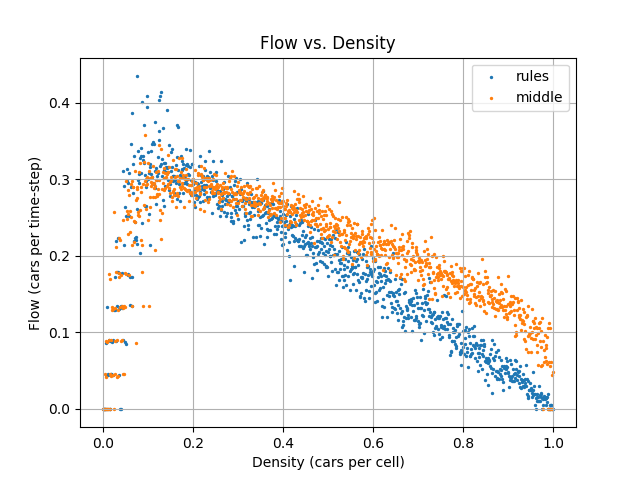
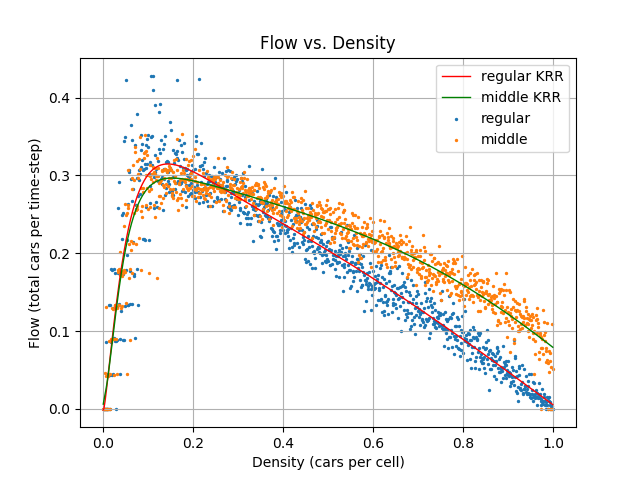
implemented KRR machine learning in a grid search for regression model,graphed with prettier colors

Changed region(s): [[0.0312, 0.125, 0.9062, 0.875]]

diff --git a/example.py b/example.py
@@ -1,9 +1,10 @@
 from trafficsimulation import TrafficSimulation
-# import seaborn as sns
+import time
 import numpy as np
-# import pandas as pd
 import matplotlib.pyplot as plt
-
+import pandas as pd
+from sklearn.model_selection import GridSearchCV
+from sklearn.kernel_ridge import KernelRidge
 
 def get_flow_array(densities, iterations, strategy):
     avg_flow_arr = []
@@ -18,21 +19,25 @@ def get_flow_array(densities, iterations, strategy):
         avg_flow_arr.append(avg_flow)
     return avg_flow_arr
 
-dens = np.arange(0.00,1.0,.001)
+dens = np.arange(0.0,1.0,.001)
 its = 200
-strategies = ['rules','middle']
+strategies = ['regular','middle']
+train_size = len(dens)
 for strategy in strategies:
     flows = get_flow_array(dens, its, strategy)
-    dens = np.array(dens)
     flows = np.array(flows)
-    # df = pd.DataFrame({'density':dens, 'flow':flows})
-    # ax = sns.lmplot(x='density', y='flow', fit_reg=True, data=df)
     plt.scatter(dens,flows,s=2,label='%s'%strategy)
-    # z = np.polyfit(dens, flows, 3)
-    # f = np.poly1d(z)
-    # plt.plot(dens, f(dens))
+    kr = GridSearchCV(KernelRidge(kernel='chi2', gamma=0.1), cv=5,
+                  param_grid={"alpha": [1e0, 0.1, 1e-2, 1e-3],
+                              "gamma": np.logspace(-2, 2, 5)})
+    dens = dens.reshape(len(dens),1)
+    flows = flows.reshape(len(flows),1)
+    kr.fit(dens[:train_size], flows[:train_size])
+    y_kr = kr.predict(dens)
+    color = 'r' if strategy == 'regular' else 'g'
+    plt.plot(dens, y_kr, label='%s KRR'%strategy,c=color,linewidth=1)
     plt.xlabel('Density (cars per cell)')
-    plt.ylabel('Flow (cars per time-step)')
+    plt.ylabel('Flow (total cars per time-step)')
     plt.title('Flow vs. Density')
     plt.grid(True)
 plt.legend(loc='upper right')

diff --git a/TrafficSimulation.py b/TrafficSimulation.py
@@ -2,7 +2,7 @@ import random
 from copy import deepcopy
 
 class TrafficSimulation():
-    def __init__(self, road_length, traffic_density, v_max, p, start_state = [], verbose = True, strategy = 'rules'):
+    def __init__(self, road_length, traffic_density, v_max, p, start_state = [], verbose = True, strategy = 'regular'):
         self.road_length = road_length
         self.traffic_density = traffic_density
         self.v_max = v_max
@@ -45,7 +45,7 @@ class TrafficSimulation():
 
             # slow down due to cars
             if j <= speed:
-                if self.strategy == 'rules':
+                if self.strategy == 'regular':
                     speeds[index] = j - 1
                 elif self.strategy == 'middle':
                     total_j = prev_j + j
@@ -83,7 +83,7 @@ class TrafficSimulation():
         self.state = updated_state
 
     def get_flow(self):
-        # distance covered by cars divided by number of cars
+        # distance covered by cars divided by length of road
         flow = self.throughput / self.road_length
         return flow
 
